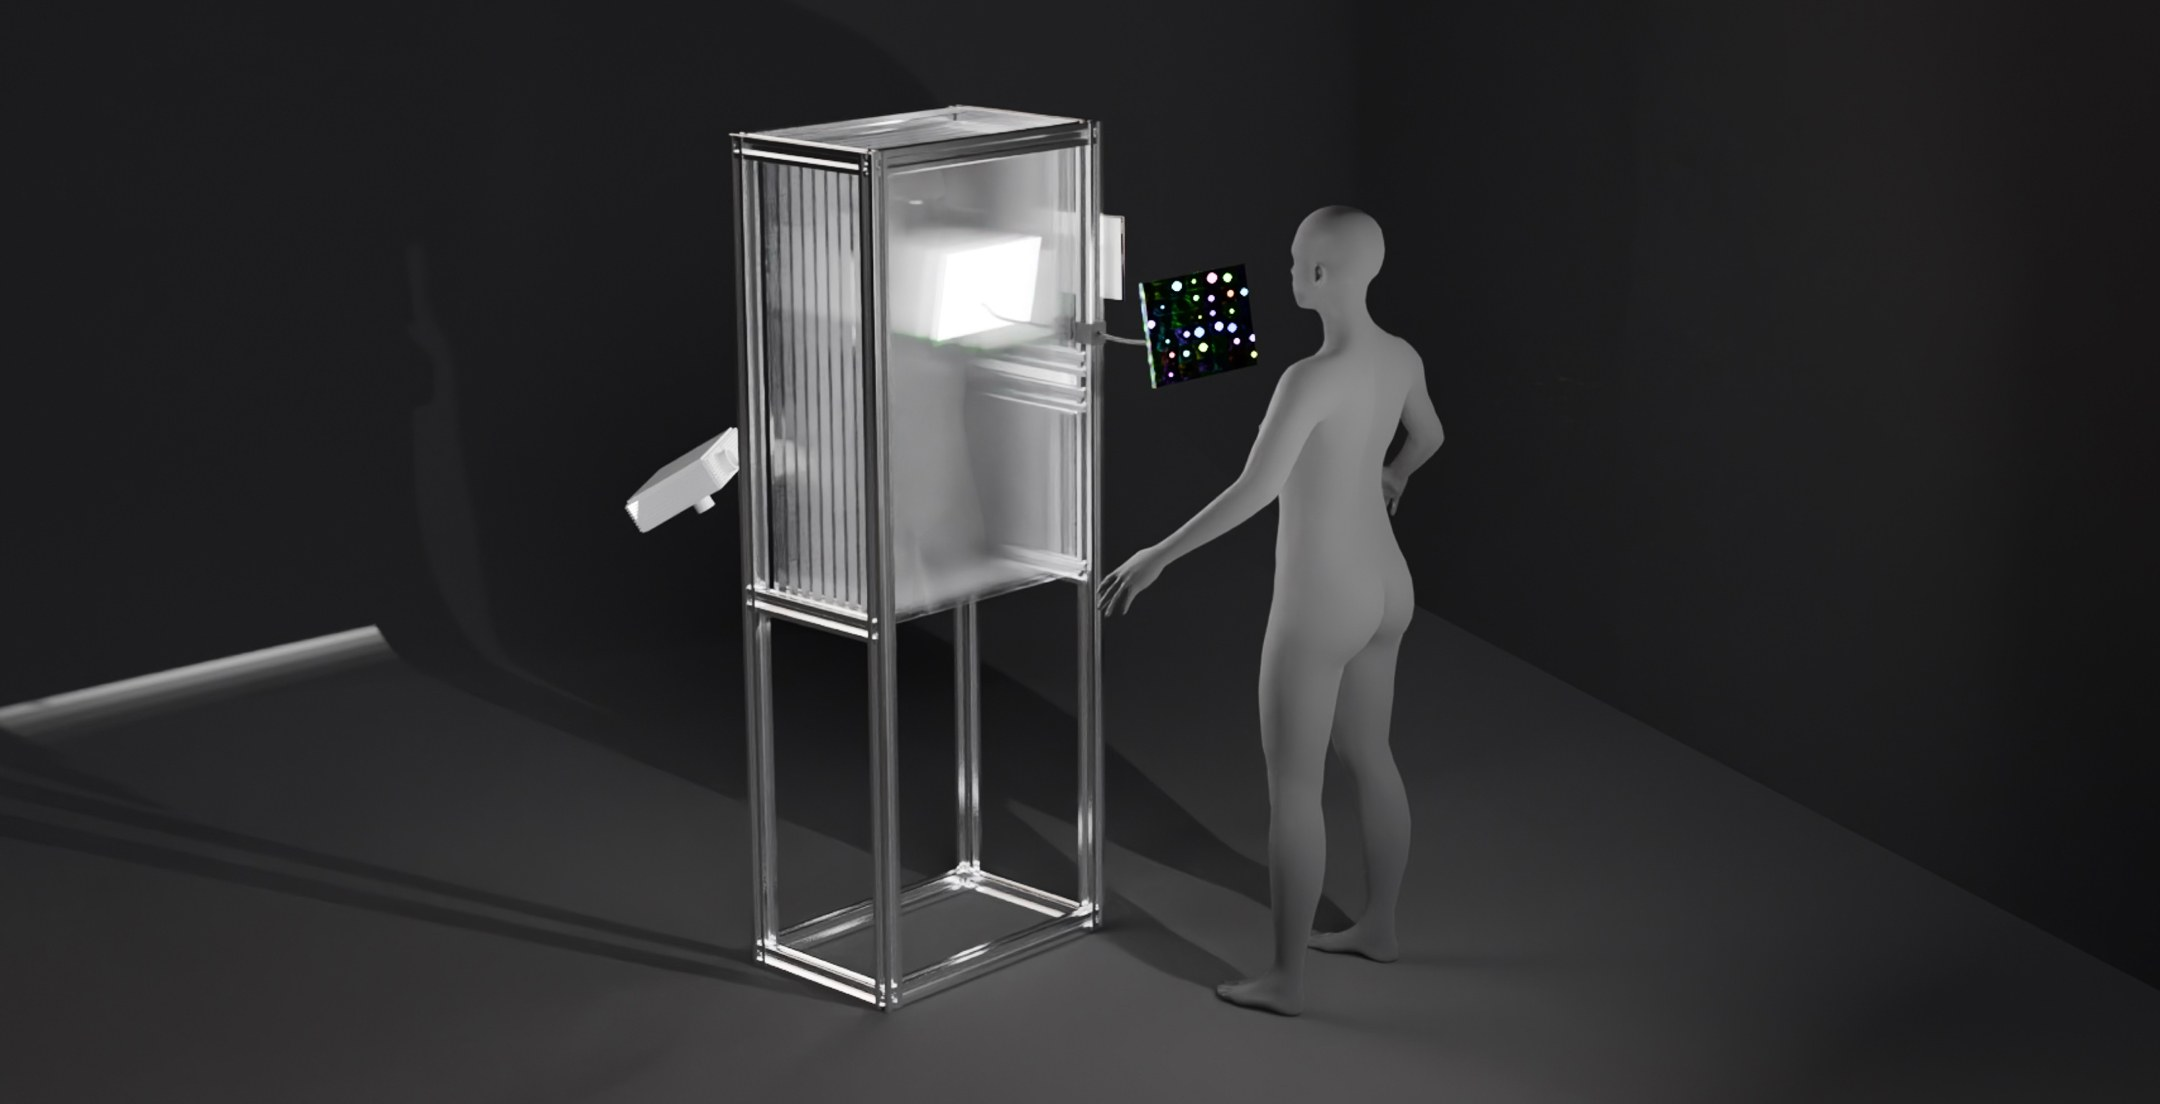
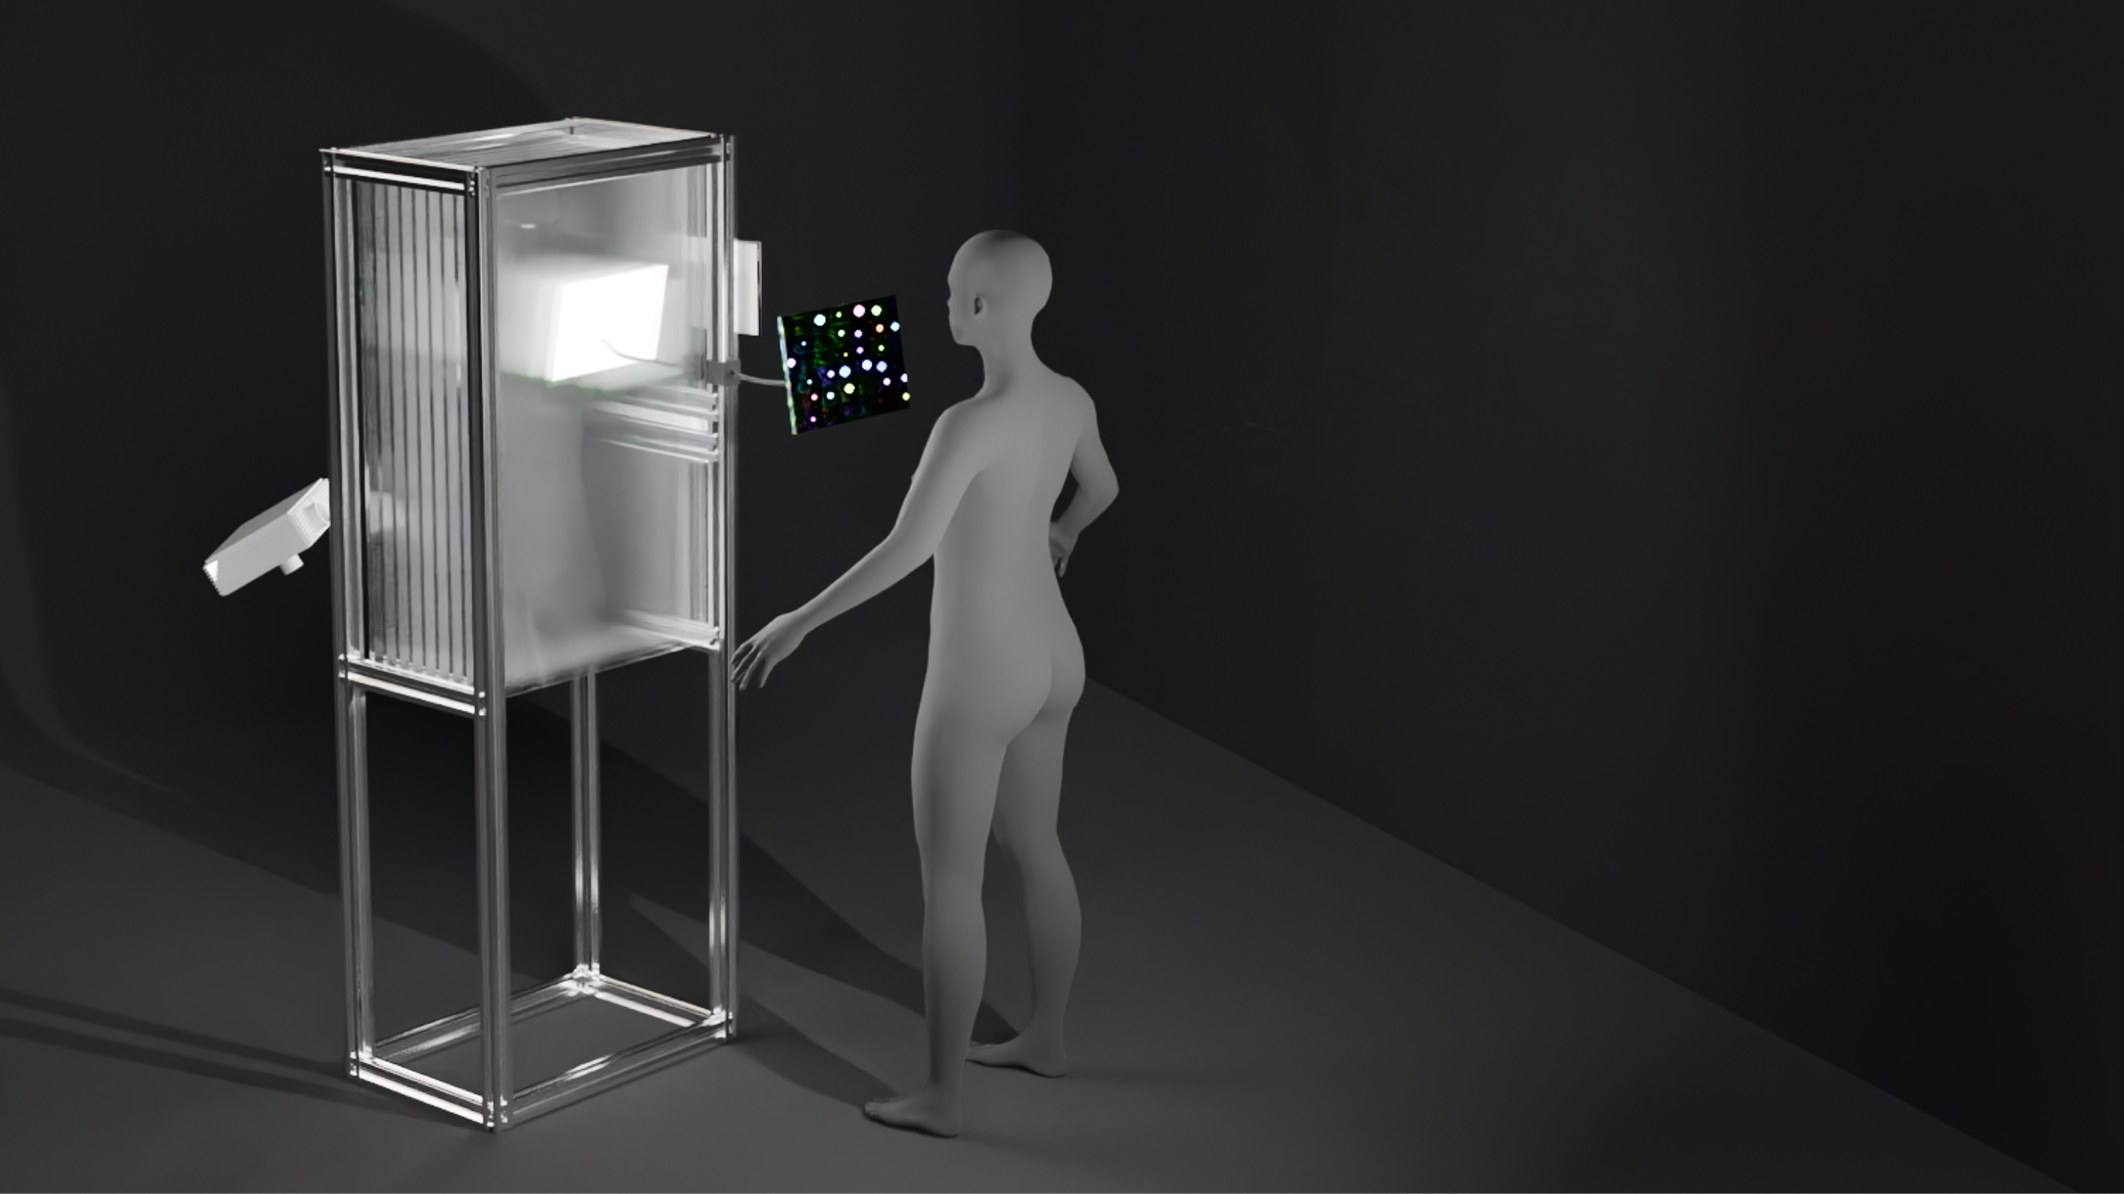
Set the interaction chain beside the render, and update the render
The chain sat at the end of the section 05 text, where it read as a fourth
paragraph in list form. Beside the render it does the job it was drawn for:
the image gives the arrangement in space, the chain gives the same event in
sequence, and the eye moves across rather than down. Below 900px the chain
would be a column of two-word lines, so it drops under the image there.

Render replaced with the newer frame.

Changed region(s): [[0.0, 0.0924, 0.6836, 0.9547], [0.6215, 0.9239, 0.7768, 1.0], [0.5593, 0.8931, 0.5904, 0.9239]]

diff --git a/docs/index.html b/docs/index.html
@@ -262,6 +262,11 @@
   /* The open question the chain arrives at: no rule tick, set apart above. */
   .chain li.end{margin-top:2.2rem;padding-top:1.6rem;border-top:1px solid var(--rule)}
   .chain li.end::before{display:none}
+  /* The render and the chain describe the same event, one spatially and one in
+     sequence, so they are set side by side and read across rather than down.
+     The image takes the larger share; the chain is text and needs less. */
+  .beside{display:grid;grid-template-columns:1.35fr 1fr;gap:2.6rem;align-items:center}
+  .beside .chain{margin-top:0}
 
   /* ── video ──────────────────────────────── */
   .video-slot{
@@ -295,6 +300,9 @@
   @media(max-width:900px){
     :root{--gutter:3.2rem}
     .grid2{grid-template-columns:1fr;gap:1.6rem}
+    /* Below this the chain would be a column of two-word lines, so it goes
+       under the render instead. */
+    .beside{grid-template-columns:1fr;gap:2rem}
     .sheets{grid-template-columns:repeat(2,1fr);gap:1.2rem}
     section{padding:9.5rem 0 5rem}
   }
@@ -726,15 +734,6 @@
       structure again through time.
       <span class="dim">(Merleau-Ponty; Varela, Thompson &amp; Rosch; Wang Yangming)</span>
     </p>
-
-    <ul class="chain">
-      <li>A finger touches the interaction screen — sliding, tapping, pausing.</li>
-      <li>The touch moves along the c axis of the latent space, changing which state is addressed.</li>
-      <li><span class="turn">The system does not obey at once.</span> While the hand is held, c approaches its target smoothly without arriving; on release it returns at a constant rate.</li>
-      <li>On the projection, the ink moves between dispersal and condensation.</li>
-      <li>In that lag, time regains its thickness — the only part of the work that is genuinely temporal.</li>
-      <li class="end">Whether consciousness can be sensed is left to the body.</li>
-    </ul>
   </div>
 
   <div class="zh">
@@ -753,15 +752,6 @@
       而是在时间中重新经验一个已经被空间化的结构。
       <span class="dim">(Merleau-Ponty;Varela、Thompson &amp; Rosch;王阳明)</span>
     </p>
-
-    <ul class="chain">
-      <li>手指触碰交互屏——滑动、点击、暂停。</li>
-      <li>触摸在潜空间的 c 轴上移动,改变被调用的状态。</li>
-      <li><span class="turn">系统不立即服从。</span>按住时,c 值向目标平滑逼近而不到达;松开后,以恒定速率退回。</li>
-      <li>投影上,墨在弥散与凝聚之间变化。</li>
-      <li>在那段迟滞里,时间重新有了厚度——这是整件作品里唯一具有时间性的部分。</li>
-      <li class="end">意识能否被感知,交还给身体。</li>
-    </ul>
   </div>
 </section>
 
@@ -816,18 +806,38 @@
     </p>
   </div>
 
-  <figure class="bleed">
-    <img loading="lazy" src="images/2026-08-23-installation-arrangement-render.jpg" alt="Render of the installation: a person reaching toward a tank carrying the projection, with a second screen mounted at its side">
-    <figcaption class="en">
-      The arrangement as built: the tank carries the ink at standing height, with
-      the touch surface at the hand and the second screen angled at the side, so
-      both are in view without either being read first.
-    </figcaption>
-    <figcaption class="zh">
-      装置的实际布置:水缸承载墨,置于站立高度,触摸面在手边,副屏则以一定角度
-      装在侧面——两者同时进入视野,谁也不必先被读。
-    </figcaption>
-  </figure>
+  <div class="bleed beside">
+    <figure>
+      <img loading="lazy" src="images/2026-08-23-installation-arrangement-render.jpg" alt="Render of the installation: a person reaching toward a tank carrying the projection, with a second screen mounted at its side">
+      <figcaption class="en">
+        The arrangement as built: the tank carries the ink at standing height,
+        with the touch surface at the hand and the second screen angled at the
+        side, so both are in view without either being read first.
+      </figcaption>
+      <figcaption class="zh">
+        装置的实际布置:水缸承载墨,置于站立高度,触摸面在手边,副屏则以一定角度
+        装在侧面——两者同时进入视野,谁也不必先被读。
+      </figcaption>
+    </figure>
+
+    <ul class="chain en">
+      <li>A finger touches the interaction screen — sliding, tapping, pausing.</li>
+      <li>The touch moves along the c axis of the latent space, changing which state is addressed.</li>
+      <li><span class="turn">The system does not obey at once.</span> While the hand is held, c approaches its target smoothly without arriving; on release it returns at a constant rate.</li>
+      <li>On the projection, the ink moves between dispersal and condensation.</li>
+      <li>In that lag, time regains its thickness — the only part of the work that is genuinely temporal.</li>
+      <li class="end">Whether consciousness can be sensed is left to the body.</li>
+    </ul>
+
+    <ul class="chain zh">
+      <li>手指触碰交互屏——滑动、点击、暂停。</li>
+      <li>触摸在潜空间的 c 轴上移动,改变被调用的状态。</li>
+      <li><span class="turn">系统不立即服从。</span>按住时,c 值向目标平滑逼近而不到达;松开后,以恒定速率退回。</li>
+      <li>投影上,墨在弥散与凝聚之间变化。</li>
+      <li>在那段迟滞里,时间重新有了厚度——这是整件作品里唯一具有时间性的部分。</li>
+      <li class="end">意识能否被感知,交还给身体。</li>
+    </ul>
+  </div>
 </section>
 
 <!-- ══ PROCESS ═══════════════════════════════ -->
